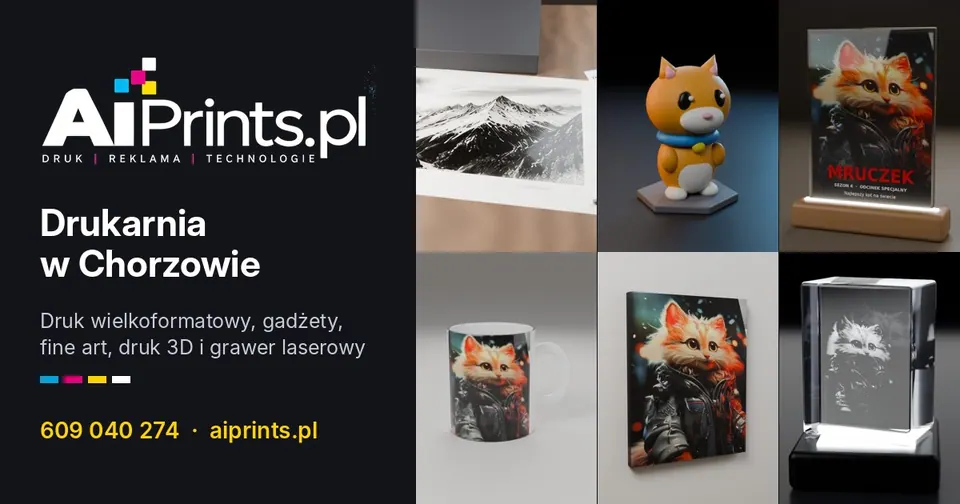
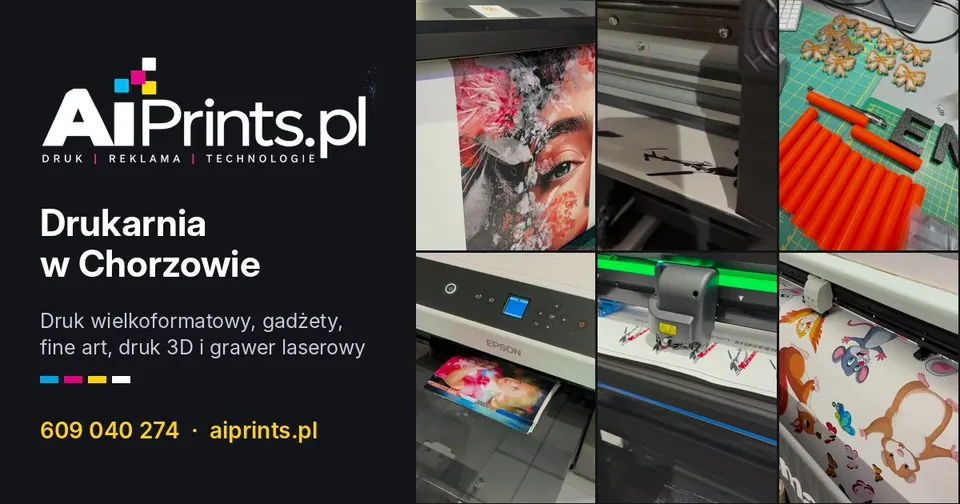
Obrazek podglądu linku: prawdziwe zdjęcia z pracowni
Claude-Session: https://claude.ai/code/session_01Sr26qcfuA36r3iBdCbNbHY

diff --git a/tools/og.py b/tools/og.py
@@ -1,0 +1,13 @@
+# Obrazek podglądu linku (og:image 1200×630): lewy panel z logo z og-aiprints-old + prawdziwe zdjęcia z pracowni.
+# python3 tools/og.py <wyjście.jpg> <zdjęcie1> … (6 zdjęć, siatka 3×2)
+import sys
+from PIL import Image, ImageOps
+out, photos = sys.argv[1], sys.argv[2:]
+base = Image.open('/home/claude/og/og-aiprints-old.jpg').convert('RGB')
+im = Image.new('RGB', (1200, 630), (20, 20, 22)); im.paste(base.crop((0, 0, 520, 630)), (0, 0))
+cols, rows, x0, gap = 3, 2, 520, 3
+w = (1200 - x0 - gap * (cols - 1)) // cols; h = (630 - gap * (rows - 1)) // rows
+for i, p in enumerate(photos[:6]):
+    t = ImageOps.fit(Image.open(p).convert('RGB'), (w, h), Image.LANCZOS, centering=(0.5, 0.45))
+    im.paste(t, (x0 + (i % cols) * (w + gap), (i // cols) * (h + gap)))
+im.save(out, quality=88, optimize=True)
